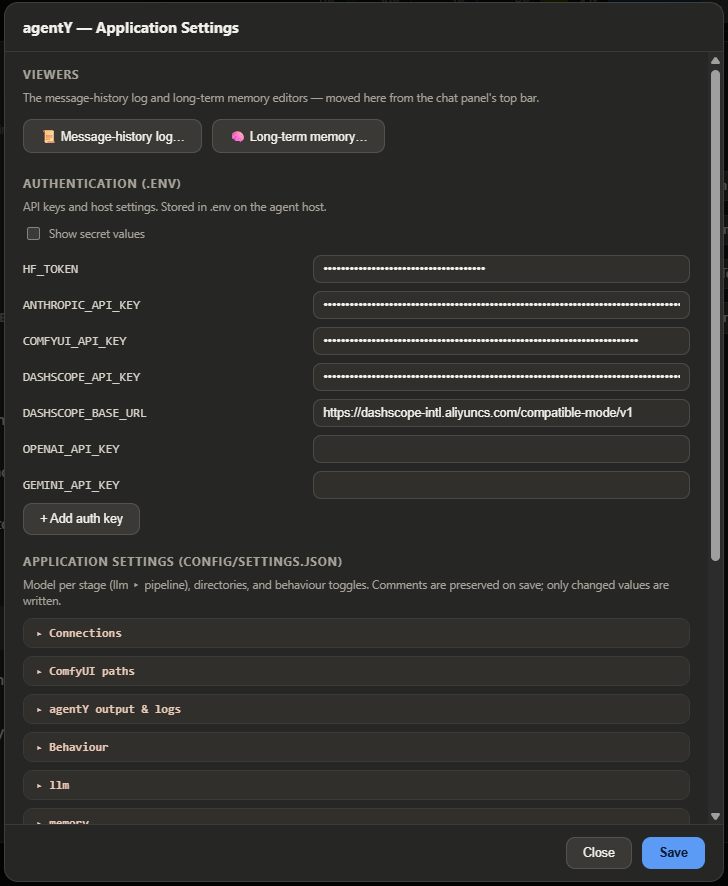
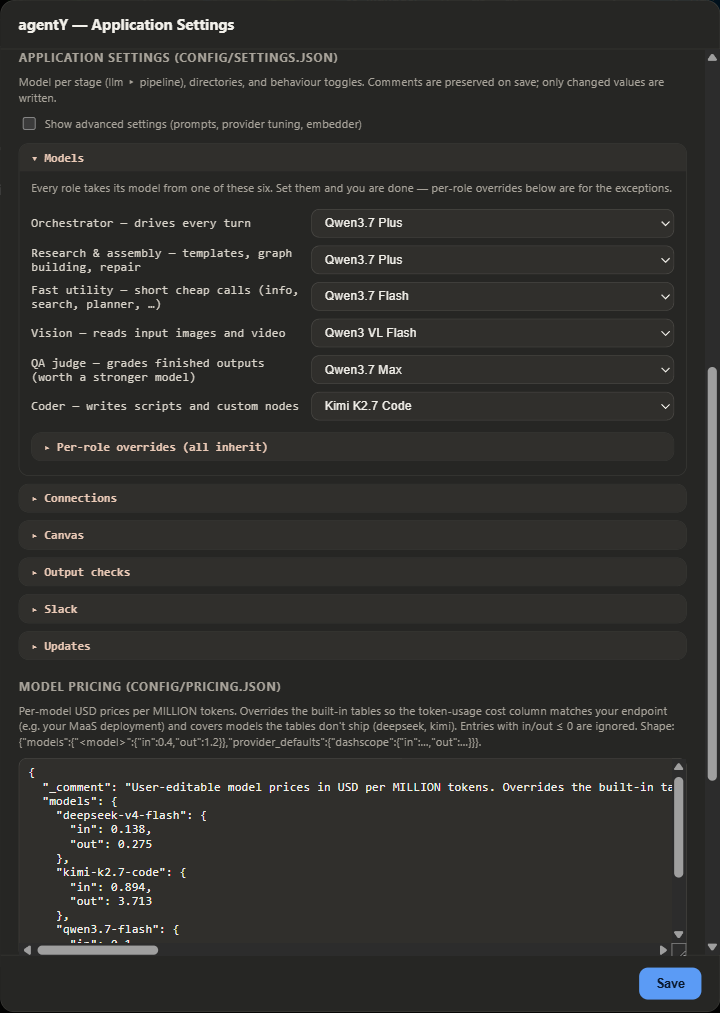
Document what shipped, and reshoot the settings
Four things were working and undocumented, and one screenshot was two
layouts out of date.

New sections:

- **Finding reference images on the web.** Downloading is showing — every
  picture the agent keeps lands on the canvas as a loader node, with no
  extra step. Says what governs how many it takes, that watermarked stock
  previews are skipped, and that something which is not really an image is
  never placed as a node that would show nothing.
- **Filling a slot nothing is wired to.** Leads with the fact that makes it
  worth explaining at all: an unwired input is ABSENT from the graph, so
  ten free reference slots look exactly like a node that has none. Then
  what that buys — "run those two again, but with this photo" — that it is
  per-run, that the canvas is untouched, and that naming a file in the
  prompt text is not wiring a reference.

Updated:

- **Settings** now describes six sections rather than two groups, with a
  table of what is in each and what "Show advanced settings" adds. Reshot
  from the live UI, framed on the generated sections so no API keys are in
  the picture. The old shot predated even the layout before this one.
- **Screenshots of your workflow** gains an actual screenshot — produced by
  `captureGraph` itself, not cropped by hand, so it shows the real framing:
  tight to the graph, no render-stats overlay.
- **Troubleshooting** gains the blind-model case, with the part that cost
[…]

Changed region(s): [[0.0, 0.0, 1.0, 1.0], [0.4278, 0.4571, 0.8861, 0.4876], [0.7028, 0.7619, 0.9472, 0.8837]]

diff --git a/docs/using-agentY.md b/docs/using-agentY.md
@@ -21,12 +21,14 @@ node, ready to wire into your next step.*
 - [The chat panel](#the-chat-panel)
   - [Talking to a turn that is already running](#talking-to-a-turn-that-is-already-running)
 - [Generating & editing](#generating--editing)
+  - [Finding reference images on the web](#finding-reference-images-on-the-web)
   - [Seeing the plan first](#seeing-the-plan-first)
 - [Slash commands](#slash-commands)
 - [**The hook system**](#the-hook-system)  ← the most powerful part
   - [Tagging a reference](#tagging-a-reference-the-agenty-add-tag-node)
   - [Asking the agent to change a setting](#asking-the-agent-to-change-a-setting)
   - [Letting the agent edit the whole graph](#letting-the-agent-read-and-edit-the-whole-graph)
+  - [Filling a slot nothing is wired to](#filling-a-slot-nothing-is-wired-to)
   - [Loops: keep trying until it's right](#loops-keep-trying-until-its-right)
   - [Screenshots of your workflow](#screenshots-of-your-workflow)
   - [Dry run: check the logic first](#dry-run-check-the-logic-before-you-pay-for-it)
@@ -190,6 +192,28 @@ graph** (staged into ComfyUI's `input` dir), so the result is immediately
 wireable into your next workflow. The chat carries the agent's *text*; the media
 lands on the canvas. Toggle **🖼 autograph** off if you'd rather the agent not
 place nodes automatically.
+
+### Finding reference images on the web
+
+Ask for references and they arrive on the canvas, the same way generated images
+do:
+
+> *"Search the web for images of this car — from every angle, and the interior."*
+
+The agent searches, picks, downloads into ComfyUI's `input` directory, and every
+picture it keeps is dropped onto your graph as a loader node. **Downloading is
+showing**: there is no extra step, and nothing to ask for. If you name a number
+("five options") it stages that many; otherwise it takes the best one or two,
+because a reference that is going to feed a generation wants the *right* picture
+rather than a pile.
+
+It skips watermarked stock previews where it can — image search is full of them,
+and a logo across the middle ruins the picture both to look at and to generate
+from.
+
+A file that turns out not to be an image (a hotlink block, a login page served at
+`…/photo.jpg`) is not placed: a loader node pointing at an HTML page shows nothing
+and fails when the graph runs.
 
 ### Seeing the plan first
 
@@ -429,9 +453,12 @@ Ask for a picture of the graph and you get one:
 
 > *"send me a screenshot of my workflow on Slack"*
 
+![A workflow photographed by `screenshot_canvas`](images/canvas-screenshot.png)
+
 It is your canvas as **you** have it — your node positions, your groups and
 colours, whatever you have collapsed — not a re-drawing of the same workflow from
-its JSON. The agent takes it, then hands it to Slack if that is where you wanted
+its JSON. It is cropped to the graph, so there is no empty background around it,
+and ComfyUI's own render-stats overlay is left out. The agent takes it, then hands it to Slack if that is where you wanted
 it. Your view does not move: the zoom is put back before the browser paints a
 frame, so you will not see anything happen.
 
@@ -450,6 +477,32 @@ If several workflows are open in ComfyUI's tabs, the agent is told which ones an
 which is active. It only ever reads, edits, runs or photographs the **active** tab
 — the others exist as saved state, not as live graphs — so if you mean a different
 one, click it first and ask again. It will ask rather than switch your tab for you.
+
+### Filling a slot nothing is wired to
+
+An empty input is invisible in the graph — an unwired slot simply is not there
+until something is plugged into it. So a model node with ten free reference slots
+and nothing in them looks, to anything reading the workflow, exactly like a node
+with no reference slots at all.
+
+That mattered, because it is the shape of a very ordinary request:
+
+> *"Run those two again, but with the photo I just gave you as a reference."*
+
+The agent can now fill a slot **nothing is wired to**. It reads what the node
+really has from ComfyUI's own schema, adds a loader for your file, and connects
+it — for that run only. Your canvas is untouched: nothing to undo afterwards, and
+nothing left behind.
+
+Two things follow from that:
+
+- **Only for some of the runs, if you like.** An empty value leaves the slot
+  unwired for that one, so "use the reference on three of the four" is a thing you
+  can simply say.
+- **It never fakes it.** Naming a file inside the prompt text is not wiring a
+  reference — the model never receives the picture, and the run reports success
+  anyway. If a reference cannot be wired, you are told why rather than handed a
+  render that quietly ignored it.
 
 ### Loops: keep trying until it's right
 
@@ -1064,12 +1117,23 @@ button.
   on the agent host. Secrets are masked; tick **Show secret values** to reveal.
   **+ Add auth key** appends a new `.env` variable (e.g. a secret an MCP server
   references) and applies it to the live process.
-- **Application settings** — only two groups are shown by default: **Connections**
-  (ComfyUI, the agentY host, and your Ollama server) and **Models & providers**.
-  Everything else — ComfyUI paths, output & logs, behaviour toggles, memory, output
-  QA, system prompts, per-provider tuning — is behind **Show advanced settings**.
-  Only changed values are written to the gitignored `config/settings.local.json`;
-  committed defaults are left untouched.
+- **Application settings** — six sections, in the order you are likely to want
+  them. **Models** is first and already open, because it is what most people came
+  to change:
+
+  | section | what is in it |
+  |---|---|
+  | **Models** | the six tiers, plus per-role overrides folded underneath |
+  | **Connections** | ComfyUI, the agentY host, your Ollama server |
+  | **Canvas** | what the agent may see and do on your open graph |
+  | **Output checks** | [QA](#checking-outputs-qa) and [refine loops](#loops-keep-trying-until-its-right) |
+  | **Slack** | the [second line](slack.md) into the agent |
+  | **Updates** | whether agentY updates itself |
+
+  **Show advanced settings** adds five more — Memory, Providers (per-vendor
+  tuning), Files & logs, Prompts, Annotation — none of which you need to touch to
+  use agentY. Only changed values are written to the gitignored
+  `config/settings.local.json`; committed defaults are left untouched.
 
   `ollama_server_url` in Connections is the single address for *everything* that
   talks to Ollama — agents on a local model, the memory embedder, and the small
@@ -1082,8 +1146,8 @@ button.
 
 ### Choosing models: six tiers, not sixteen dropdowns
 
-Under **Models & providers** you set six **tiers**, and every role inherits from
-one of them:
+**Models** is the first section and opens with the panel. You set six **tiers**,
+and every role inherits from one of them:
 
 | tier | who uses it |
 |---|---|
@@ -1236,8 +1300,7 @@ over that role's tier until you clear it:
 
 The scope dropdown next to it offers **All tiers**, each of the six **tiers**,
 and each individual **role** (labelled with the tier it belongs to). It is built
-from the agent's own tier map at startup, so it always matches Settings ▸ Models
-& providers.
+from the agent's own tier map at startup, so it always matches Settings ▸ Models.
 
 Switching a **tier** is the normal move. Switching a single **role** writes a
 per-role override, which then beats that role's tier until you clear it in
@@ -1271,6 +1334,14 @@ corpus lives in **agenty_core**.
 - **Panel shows "▶ Start server" / can't connect** — the agent host isn't
   running. Run `.\run_agent.ps1` (or click the button), and check the backend URL
   (`localStorage.agentY_backend`).
+- **"The model configured for vision / qa_judge is not multimodal"** — that
+  tier is pointed at a text-only model, so it cannot be handed a picture at
+  all. Point it at a vision model in Settings ▸ Models (for DashScope that
+  means a `-vl-` one). Worth knowing which way each fails: **vision** fails
+  loudly, because nothing can be described; **qa_judge** fails *quietly* — a
+  judge that cannot see will pass every output rather than condemn work it was
+  unable to read, so QA looks like it is running and is not. agentY now says
+  so instead of leaving you to notice.
 - **Autograph toggle or MCP section does nothing / 404** — those routes live in a
   newer host build; **restart `run_agent.ps1`** so the `:5000` host serves them.
 - **Canvas nodes/UI look stale after an update** — the ComfyUI copy of

diff --git a/README.md b/README.md
@@ -28,6 +28,8 @@ An AI agent that constructs and executes [ComfyUI](https://github.com/comfyanony
 - **Results as graph nodes** — every generated image/video is added to the open ComfyUI graph as a `LoadImage` / video-loader node (staged into ComfyUI's input dir), instead of being shown inline. The chat carries the agent's *text*.
 - **Canvas hook nodes** — annotate the graph with **`agentY hook`** nodes ("sweep the seed 6×", "upscale then add film grain") and let the agent run them; chain hooks for multi-step tasks, **bake** a chain into reusable native ComfyUI **subgraphs**, or run an interactive **iterative-refine loop** (one gen per turn, feeding each result back in). See [Canvas nodes](#canvas-nodes) and the [hook system guide](docs/using-agentY.md#the-hook-system).
 - **Refine loops on your own graph** — *"change the prompt until the woman's position matches the original frame"*. With a workflow already open in the canvas and no hook nodes at all, the agent runs **your** graph, judges each output against the condition you stated (same judge as QA, comparing against the images your graph loads), rewrites one value, and goes again — stopping the run it lands on, or when the budget (`[refine] max_runs`, default 4) is spent. You watch the value change in your own node, and typing anything stops it. See [Loops](docs/using-agentY.md#loops-keep-trying-until-its-right).
+- **Web references, straight onto the canvas** — *“search the web for images of this car, from every angle”*. The agent searches, picks, downloads into ComfyUI's `input` dir, and every picture it keeps is dropped on your graph as a loader node — downloading **is** showing, with no extra step. Name a number and it stages that many; otherwise it takes the best one or two. Watermarked stock previews are skipped, and a hotlink block served at `…/photo.jpg` is never placed as a node that would show nothing. See [Finding references](docs/using-agentY.md#finding-reference-images-on-the-web).
+- **Fill a slot nothing is wired to** — an unwired input is *absent* from the graph, so ten empty reference slots look exactly like a node that has none. The agent reads what the node really declares from ComfyUI's schema, adds a loader and connects it — for that run only, leaving your canvas untouched. That is what makes *“run those two again, but with this photo as a reference”* work. See [Filling a slot](docs/using-agentY.md#filling-a-slot-nothing-is-wired-to).
 - **Screenshots of your canvas** — *"send me a screenshot of my workflow on Slack"*. The picture is drawn by the ComfyUI page itself, so it is your graph as **you** have it — your layout, groups, colours and collapsed nodes — and your view is put back before the browser paints, so nothing moves on screen. A graph too large to draw at readable zoom comes back as a labelled overview and the agent says so; select the part you care about and it is photographed at full size. The agent is also told when several workflows are open in ComfyUI's tabs, and that only the active one is live. See [Screenshots](docs/using-agentY.md#screenshots-of-your-workflow).
 - **MCP support** — call tools from external **MCP servers** (config-driven `config/mcp.json`, `http`/`sse`/`stdio`, with `none` / `header` / **OAuth** auth). Ships with **Magnific** wired via OAuth (one-click *Authorize…* in Settings). See [MCP servers](docs/using-agentY.md#mcp-servers).
 - **Slack bridge (optional, off by default)** — a **second line** into the agent alongside the sidebar, never instead of it. Every turn is mirrored to your Slack DM as it runs, *including the ones you start in the panel*, so you can queue a render at the desk and watch it finish from a phone; a DM back drives the same conversation. Outbound **Socket Mode**, so nothing has to be reachable from the internet. See [Slack](docs/slack.md).
